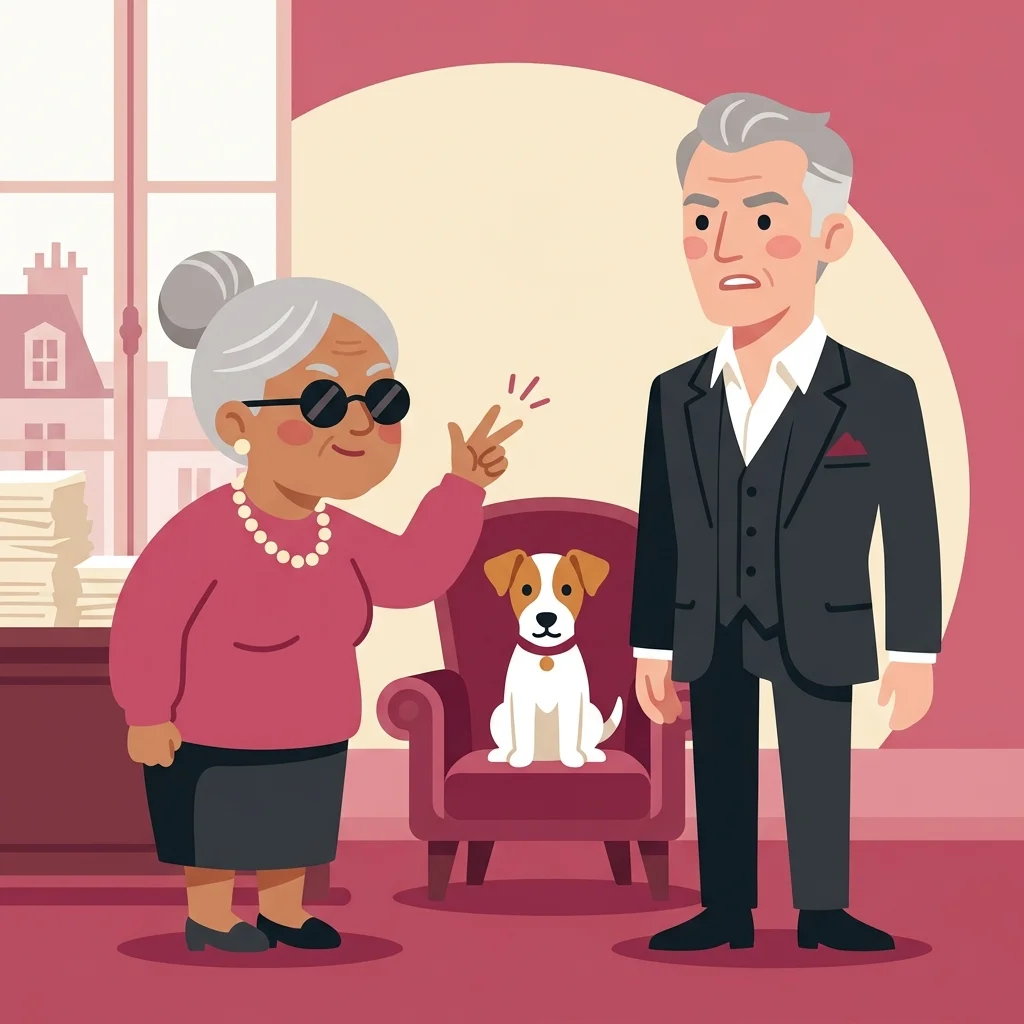
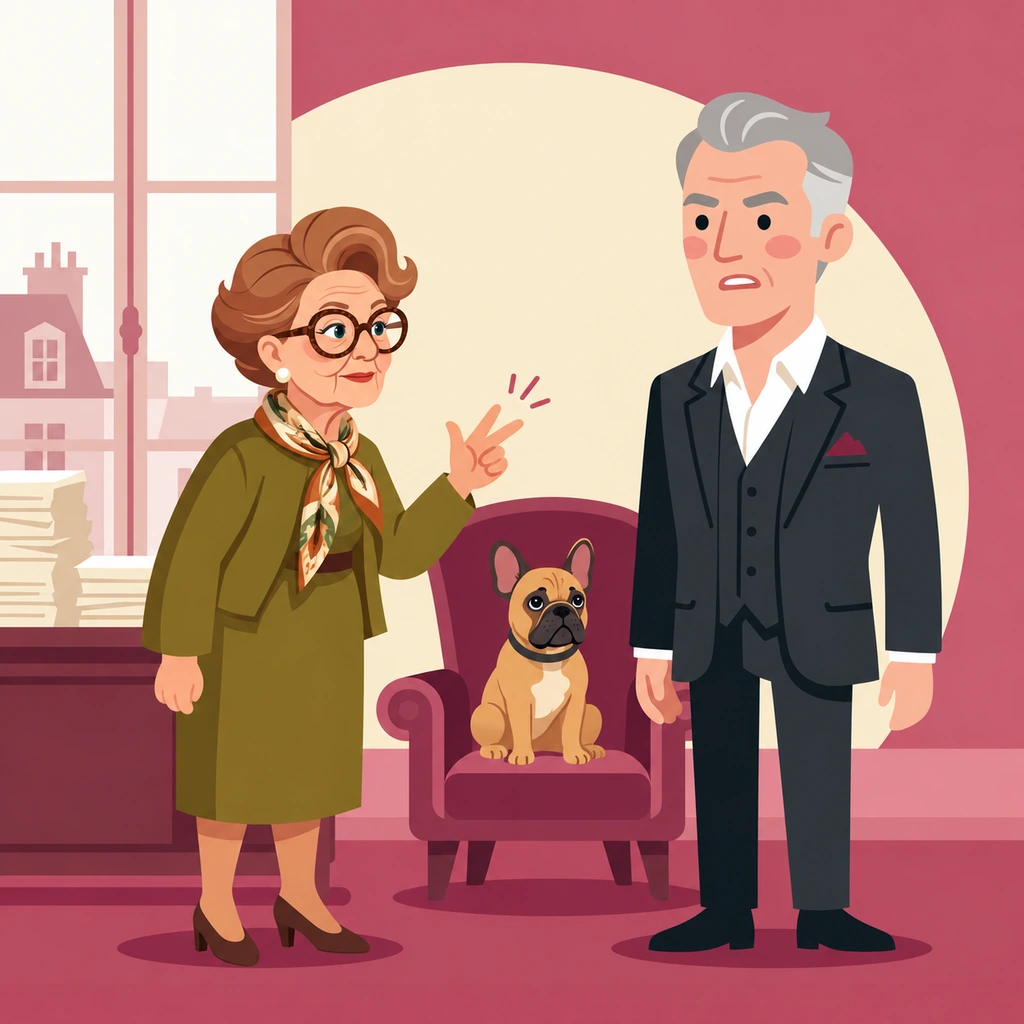
Match S01E05 lesson artwork to established characters

Changed region(s): [[0.0938, 0.1875, 0.625, 0.9688]]

diff --git a/out/dix-pour-cent/s01e05/EDITORIAL-REVIEW.md b/out/dix-pour-cent/s01e05/EDITORIAL-REVIEW.md
@@ -25,3 +25,11 @@ Corrected ordinary “he”, “has”, “the”, “all”, “door”, “gir
 Checked dialogue, speakers and plot against source cues 158–251. Split the writer's “Jonathan” from Arlette's correction “Ryan”, preserving the actual exchange. Removed the agent-planning question wrongly assigned to Julie from scene 11; the remaining 13-line lesson starts with Gabriel's promise. Documented dialogue compression in the three-role scene 10. All English explanations rewritten and repeated translations completed.
 
 Corrected death as a noun, affirmative comparative “plus”, plural/impersonal expressions, object pronouns, note versus word, dear versus expensive, a fresh start versus departure, surprised as an adjective, share versus apart, and the separate components of “quelque chose”. Reviewed noncanonical forms/examples and the illustrations. Scene 12 artwork requires replacement for Arlette/dog continuity; scene 05 is also held for JoeyStarr art correction. Those two scripts/notes are ready for rendering, but this review does not approve those illustrations for publication. Scenes 09–12 validator: no explanation warnings; episode-wide validation: 0 errors, 86 warnings.
+
+## Art continuity correction: scenes 05 and 12
+
+Used the built-in imagegen tool in edit mode after inspecting target images and established references. Scene 05 now uses scene 01's JoeyStarr and Samir identities/costumes; scene 12 now uses scene 09's Arlette and small tan dog. Viewed both generated outputs and both final 1024×1024 WebP files. These two illustrations are now approved; the earlier publication holds for their artwork are cleared. Scripts/notes stayed frozen.
+
+Prompt 05: Keep scene 05's composition, actress, courtyard and film equipment; replace the right-hand actor with scene 01's Black, close-cropped, clean-shaven servant in a cream shirt, brown breeches, white stockings and buckled shoes; replace the director with scene 01's dark-haired, bearded director in a navy sweater and tan trousers. Preserve the warm flat-color style and add no text or people.
+
+Prompt 12: Keep scene 12's composition, Mathias, office and pink armchair; replace the left-hand woman with scene 09's light-skinned Arlette, swept-up brown hair, round optical glasses, olive outfit and silk scarf; preserve her scissors gesture. Match scene 09's tan French bulldog on the chair. Preserve the warm flat-color style and add no text or people.
